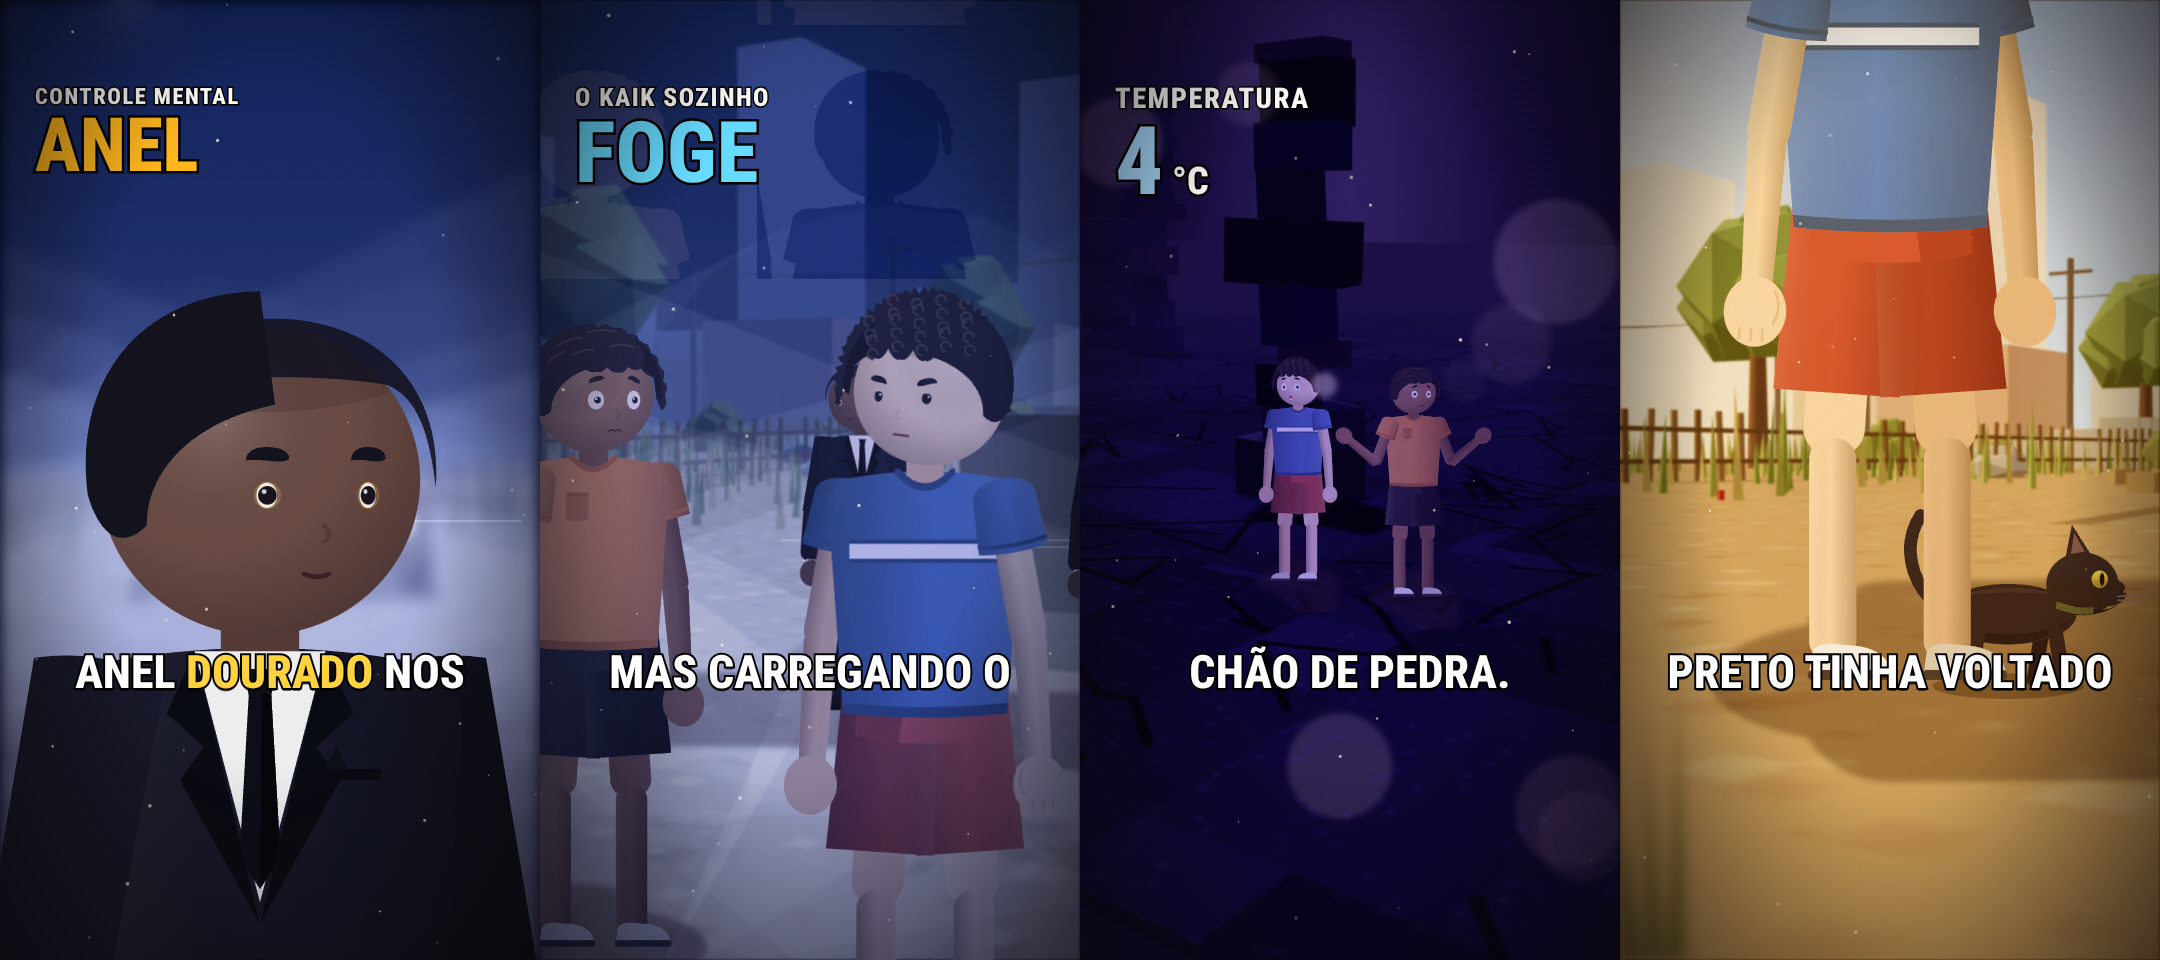
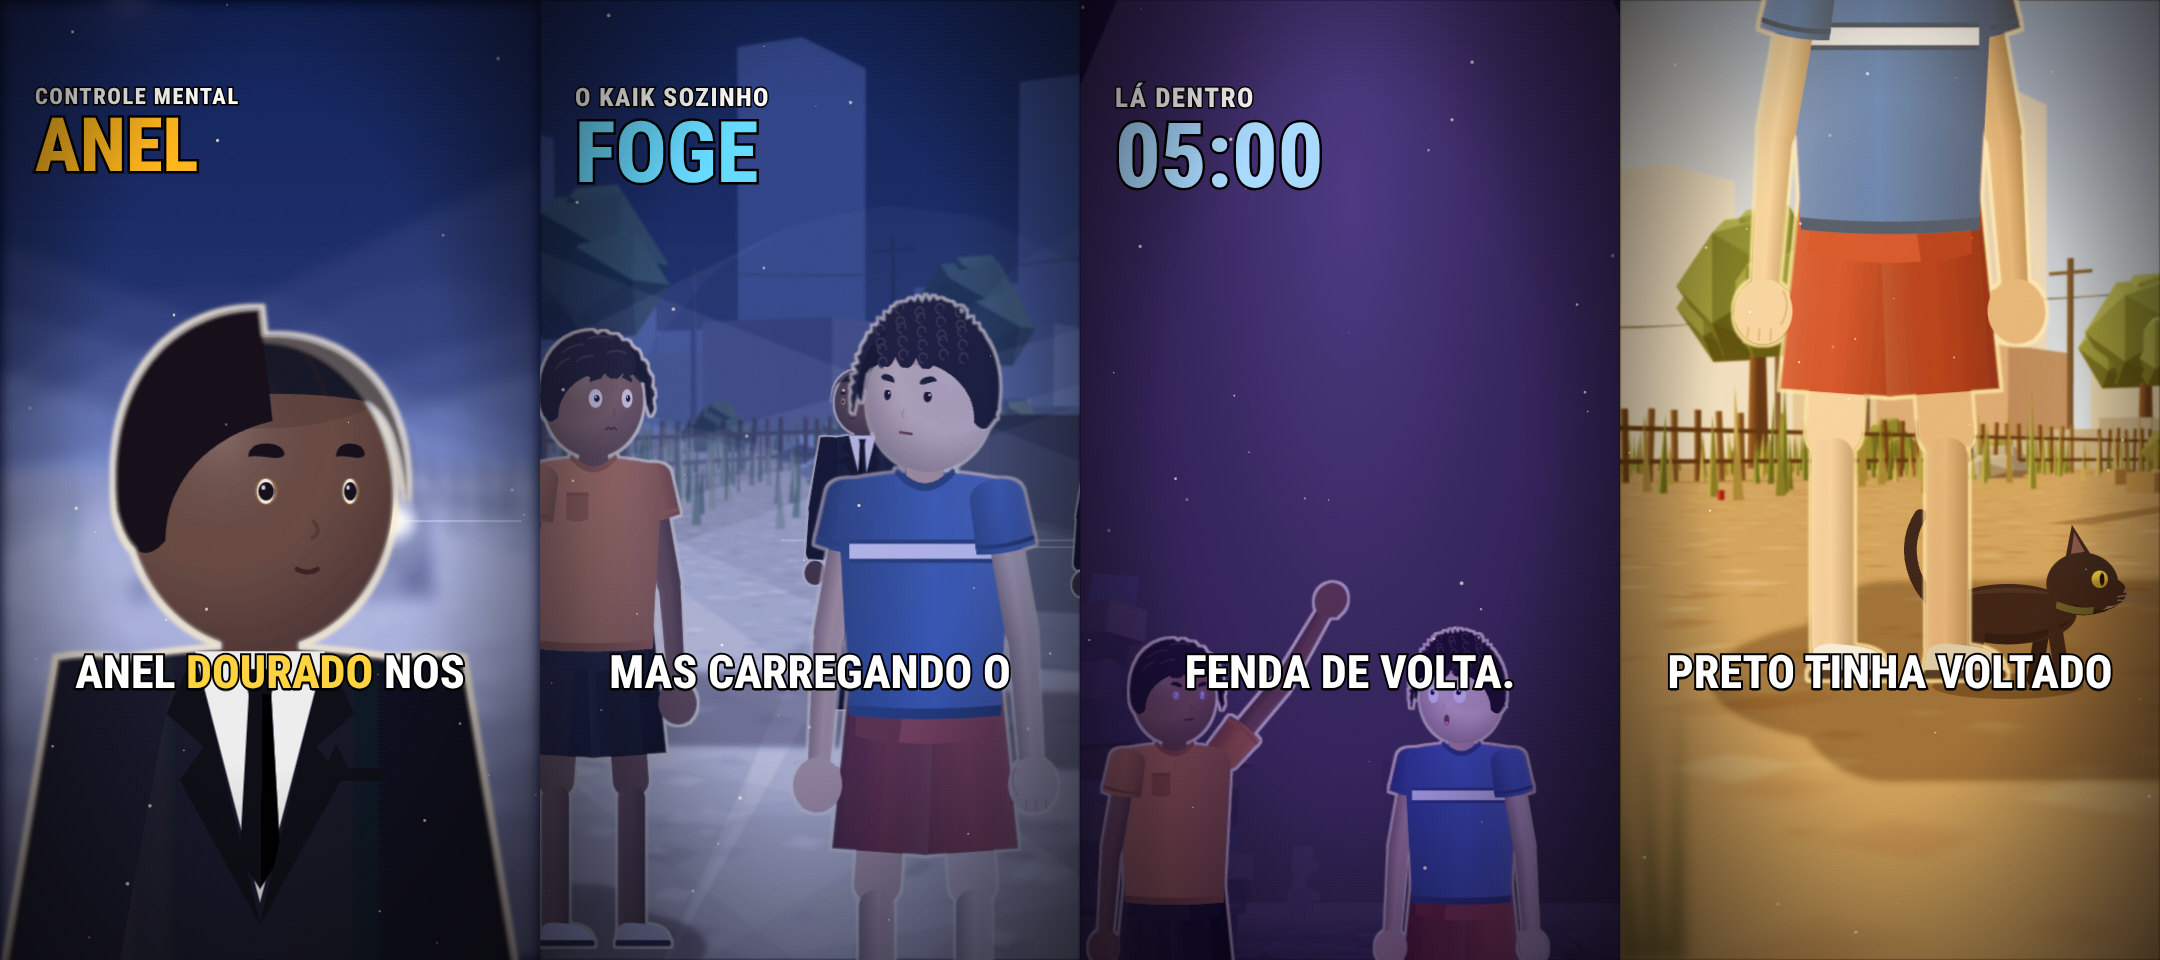
Rosto 3, rodada 3: cabeça oval, corpo mais fino, contorno de luz
Claude-Session: https://claude.ai/code/session_01VxVnSB2Gp8guziDvUfHTY2

diff --git a/estudio/src/personagens/Chede.tsx b/estudio/src/personagens/Chede.tsx
@@ -241,7 +241,7 @@ export const Cabeca: React.FC<{ expressao: Expressao; pose: Pose; vista?: Vista 
   const r3 = React.useContext(Rosto3Ctx);
   const ex = r3 ? 66 : 74; // distância dos olhos ao centro
   return (
-    <g>
+    <g transform={r3 ? "scale(0.86,1.02)" : undefined}>
       <defs>
         <clipPath id={`clipCabeca-${vista}`}>
           <ellipse cx={0} cy={0} rx={212} ry={205} />
@@ -419,7 +419,7 @@ export const Cabeca: React.FC<{ expressao: Expressao; pose: Pose; vista?: Vista 
       )}
       {/* rosto */}
       {!costas && (
-        <g transform={`translate(${fx},20)`}>
+        <g transform={`translate(${fx},${r3 ? -6 : 20})`}>
           {!perfil && <Sobrancelha x={-ex} y={e.sobY} ang={e.sobAng} lado={-1} />}
           <g transform={tres ? "translate(74,0) scale(0.8,1) translate(-74,0)" : undefined}>
             <Sobrancelha x={perfil ? 10 : ex} y={e.sobY} ang={e.sobAng} lado={1} />
@@ -598,7 +598,7 @@ const Braco: React.FC<{
   const pele = sombra ? C.peleSombra : C.pele;
   const manga = sombra ? C.camisaSombra : C.camisa;
   const r3b = React.useContext(Rosto3Ctx);
-  const k = React.useContext(Corpo2Ctx) ? (r3b ? 1.5 : 1.75) : 1;
+  const k = React.useContext(Corpo2Ctx) ? (r3b ? 1.3 : 1.75) : 1;
   return (
     <g transform={`rotate(${-ombro * lado})`}>
       {/* braço */}
@@ -669,7 +669,7 @@ const Perna: React.FC<{ lado: 1 | -1; quadril: number; joelho: number; sombra?: 
   const pe = paraDireita ? 1 : lado;
   const pele = sombra ? C.peleSombra : C.pele;
   const r3 = React.useContext(Rosto3Ctx);
-  const k = React.useContext(Corpo2Ctx) ? (r3 ? 1.45 : 1.6) : 1;
+  const k = React.useContext(Corpo2Ctx) ? (r3 ? 1.3 : 1.6) : 1;
   return (
     <g transform={`rotate(${-quadril * lado})`}>
       {/* coxa */}
@@ -699,7 +699,7 @@ const Perna: React.FC<{ lado: 1 | -1; quadril: number; joelho: number; sombra?: 
   );
 };
 
-const TRONCO3 = "M -192 -1172 Q 0 -1206 192 -1172 Q 222 -1150 216 -1100 L 184 -732 Q 0 -716 -184 -732 L -216 -1100 Q -222 -1150 -192 -1172 Z";
+const TRONCO3 = "M -170 -1174 Q 0 -1204 170 -1174 Q 198 -1152 194 -1104 L 170 -728 Q 0 -714 -170 -728 L -194 -1104 Q -198 -1152 -170 -1174 Z";
 
 // ---------- Corpo inteiro ----------
 export const Chede: React.FC<{ expressao?: Expressao; pose?: Pose; vista?: Vista; semSombra?: boolean }> = ({
@@ -712,7 +712,7 @@ export const Chede: React.FC<{ expressao?: Expressao; pose?: Pose; vista?: Vista
   const c2 = React.useContext(Corpo2Ctx);
   const r3 = React.useContext(Rosto3Ctx);
   const sx = vista === "perfil" ? 0.58 : vista === "tresQuartos" ? 0.84 : 1;
-  const ombroX = vista === "perfil" ? 20 : (r3 ? 176 : 150) * sx;
+  const ombroX = vista === "perfil" ? 20 : (r3 ? 160 : 150) * sx;
   const quadrilX = vista === "perfil" ? 16 : (c2 ? 78 : 62) * sx;
   const costas = vista === "costas";
   const lateral = vista === "perfil" || vista === "tresQuartos";
@@ -732,6 +732,20 @@ export const Chede: React.FC<{ expressao?: Expressao; pose?: Pose; vista?: Vista
     <g>
       {/* sombra no chão */}
       {!semSombra && <ellipse cx={0} cy={6} rx={200} ry={26} fill="#000" opacity={0.18} />}
+      {r3 && (
+        <defs>
+          {/* contorno de luz fino em volta do corpo (acabamento das referências 5 e 6) */}
+          <filter id="contornoLuz3" x="-25%" y="-8%" width="150%" height="116%">
+            <feMorphology in="SourceAlpha" operator="dilate" radius={4.5} result="d" />
+            <feComposite in="d" in2="SourceAlpha" operator="out" result="anel" />
+            <feFlood floodColor="#FFE9B8" floodOpacity={0.85} />
+            <feComposite in2="anel" operator="in" result="borda" />
+            <feGaussianBlur in="borda" stdDeviation={1.6} result="bb" />
+            <feMerge><feMergeNode in="SourceGraphic" /><feMergeNode in="bb" /></feMerge>
+          </filter>
+        </defs>
+      )}
+      <g filter={r3 ? "url(#contornoLuz3)" : undefined}>
       {/* pernas */}
       <g transform={`translate(${-quadrilX},-760)`}>
         <Perna lado={-1} quadril={P.pernaE} joelho={P.joelhoE} paraDireita={lateral} />
@@ -785,7 +799,7 @@ export const Chede: React.FC<{ expressao?: Expressao; pose?: Pose; vista?: Vista
           </>
         )}
         {r3
-          ? <path d="M -186 -752 Q 0 -736 186 -752 L 184 -732 Q 0 -716 -184 -732 Z" fill={C.camisaDetalhe} />
+          ? <path d="M -172 -748 Q 0 -734 172 -748 L 170 -728 Q 0 -714 -170 -728 Z" fill={C.camisaDetalhe} />
           : <path d="M -158 -800 L 158 -800 L 158 -780 L -158 -780 Z" fill={C.camisaDetalhe} />}
         {/* pescoço + gola */}
         <rect x={-42} y={-1232} width={84} height={70} rx={20} fill={C.peleSombra} />
@@ -871,9 +885,10 @@ export const Chede: React.FC<{ expressao?: Expressao; pose?: Pose; vista?: Vista
           <Braco lado={-1} ombro={P.bracoE} cotovelo={P.antebracoE} />
         </g>
         {/* cabeça */}
-        <g transform={`translate(0,${r3 ? -1340 : c2 ? -1372 : -1420}) rotate(${P.cabeca ?? 0} 0 190) scale(${r3 ? 0.68 : c2 ? 0.76 : 1})`}>
+        <g transform={`translate(0,${r3 ? -1326 : c2 ? -1372 : -1420}) rotate(${P.cabeca ?? 0} 0 190) scale(${r3 ? 0.66 : c2 ? 0.76 : 1})`}>
           <Cabeca expressao={expressao} pose={P} vista={vista} />
         </g>
+      </g>
       </g>
     </g>
   );

diff --git a/estudio/src/estilo2/Comparar.tsx b/estudio/src/estilo2/Comparar.tsx
@@ -11,10 +11,10 @@ const T: React.FC<{ x: number; y: number; t: string }> = ({ x, y, t }) => (
 );
 export const Comparar: React.FC = () => (
   <AbsoluteFill style={{ background: "#E6E1D8" }}>
-    <T x={40} y={20} t="REFERÊNCIA 5" />
+    <T x={40} y={20} t="REFERÊNCIA 6" />
     <T x={40} y={1000} t="NOSSOS (NOVO)" />
-    {["q053", "q061", "q006", "q017", "q078"].map((q, i) => (
-      <Img key={q} src={staticFile(`tmp-ref/${q}.png`)} style={{ position: "absolute", left: 20 + i * 470, top: 80, width: 460, height: 818, objectFit: "cover" }} />
+    {["q001", "q016", "q023", "q026", "q011"].map((q, i) => (
+      <Img key={q} src={staticFile(`tmp-ref6/${q}.png`)} style={{ position: "absolute", left: 20 + i * 470, top: 80, width: 460, height: 818, objectFit: "cover" }} />
     ))}
     <svg viewBox="0 0 2400 900" width={2400} height={900} style={{ position: "absolute", left: 0, top: 1060 }}>
       <rect x={20} y={0} width={460} height={818} fill="#8C9BC8" />

diff --git a/aprendizados.md b/aprendizados.md
@@ -163,4 +163,5 @@ Regras que valem para todos os vídeos. Cada uma com o motivo.
   - boca e nariz menores, sobrancelha curta e grossa, língua rosa na boca aberta;
   - polegar e linhas dos dedos marcados, antebraço afinando;
   - tronco com ombro arredondado e cintura mais fina, manga arredondada, sombra em degradê suave.
-  Rodada 2 (09/11): cabeça menor (0,68), camiseta mais larga e comprida até o quadril, olho normal = oval escura (branco só no susto), sombra em degradê no rosto, braços e pernas, braços/pernas um pouco mais finos, mãos maiores, manga sem ombreira. Comparação em `previas/teste-rosto-3.png`. Usuário: "reajustar até pegar o resultado que eu goste".
+  Rodada 3 (09/11, com a referência 6): cabeça oval e menor (0,66 com 0,86 de largura), rosto um pouco mais alto, braços e pernas mais finos (1,3), camiseta reta até o quadril, contorno de luz fino em volta do corpo (`contornoLuz3`). Rodada 2: cabeça menor (0,68), camiseta mais larga e comprida até o quadril, olho normal = oval escura (branco só no susto), sombra em degradê no rosto, braços e pernas, braços/pernas um pouco mais finos, mãos maiores, manga sem ombreira. Comparação em `previas/teste-rosto-3.png`. Usuário: "reajustar até pegar o resultado que eu goste".
+- **Imagem de comparação com quadros de referência NUNCA vai para o Git** (bloqueio de 09/11). A folha `Comparar` (quadros da referência + nossos personagens) é renderizada só no rascunho; os quadros ficam em `estudio/public/tmp-ref*/` (ignorados). Motivo: material de terceiros fica só local.
